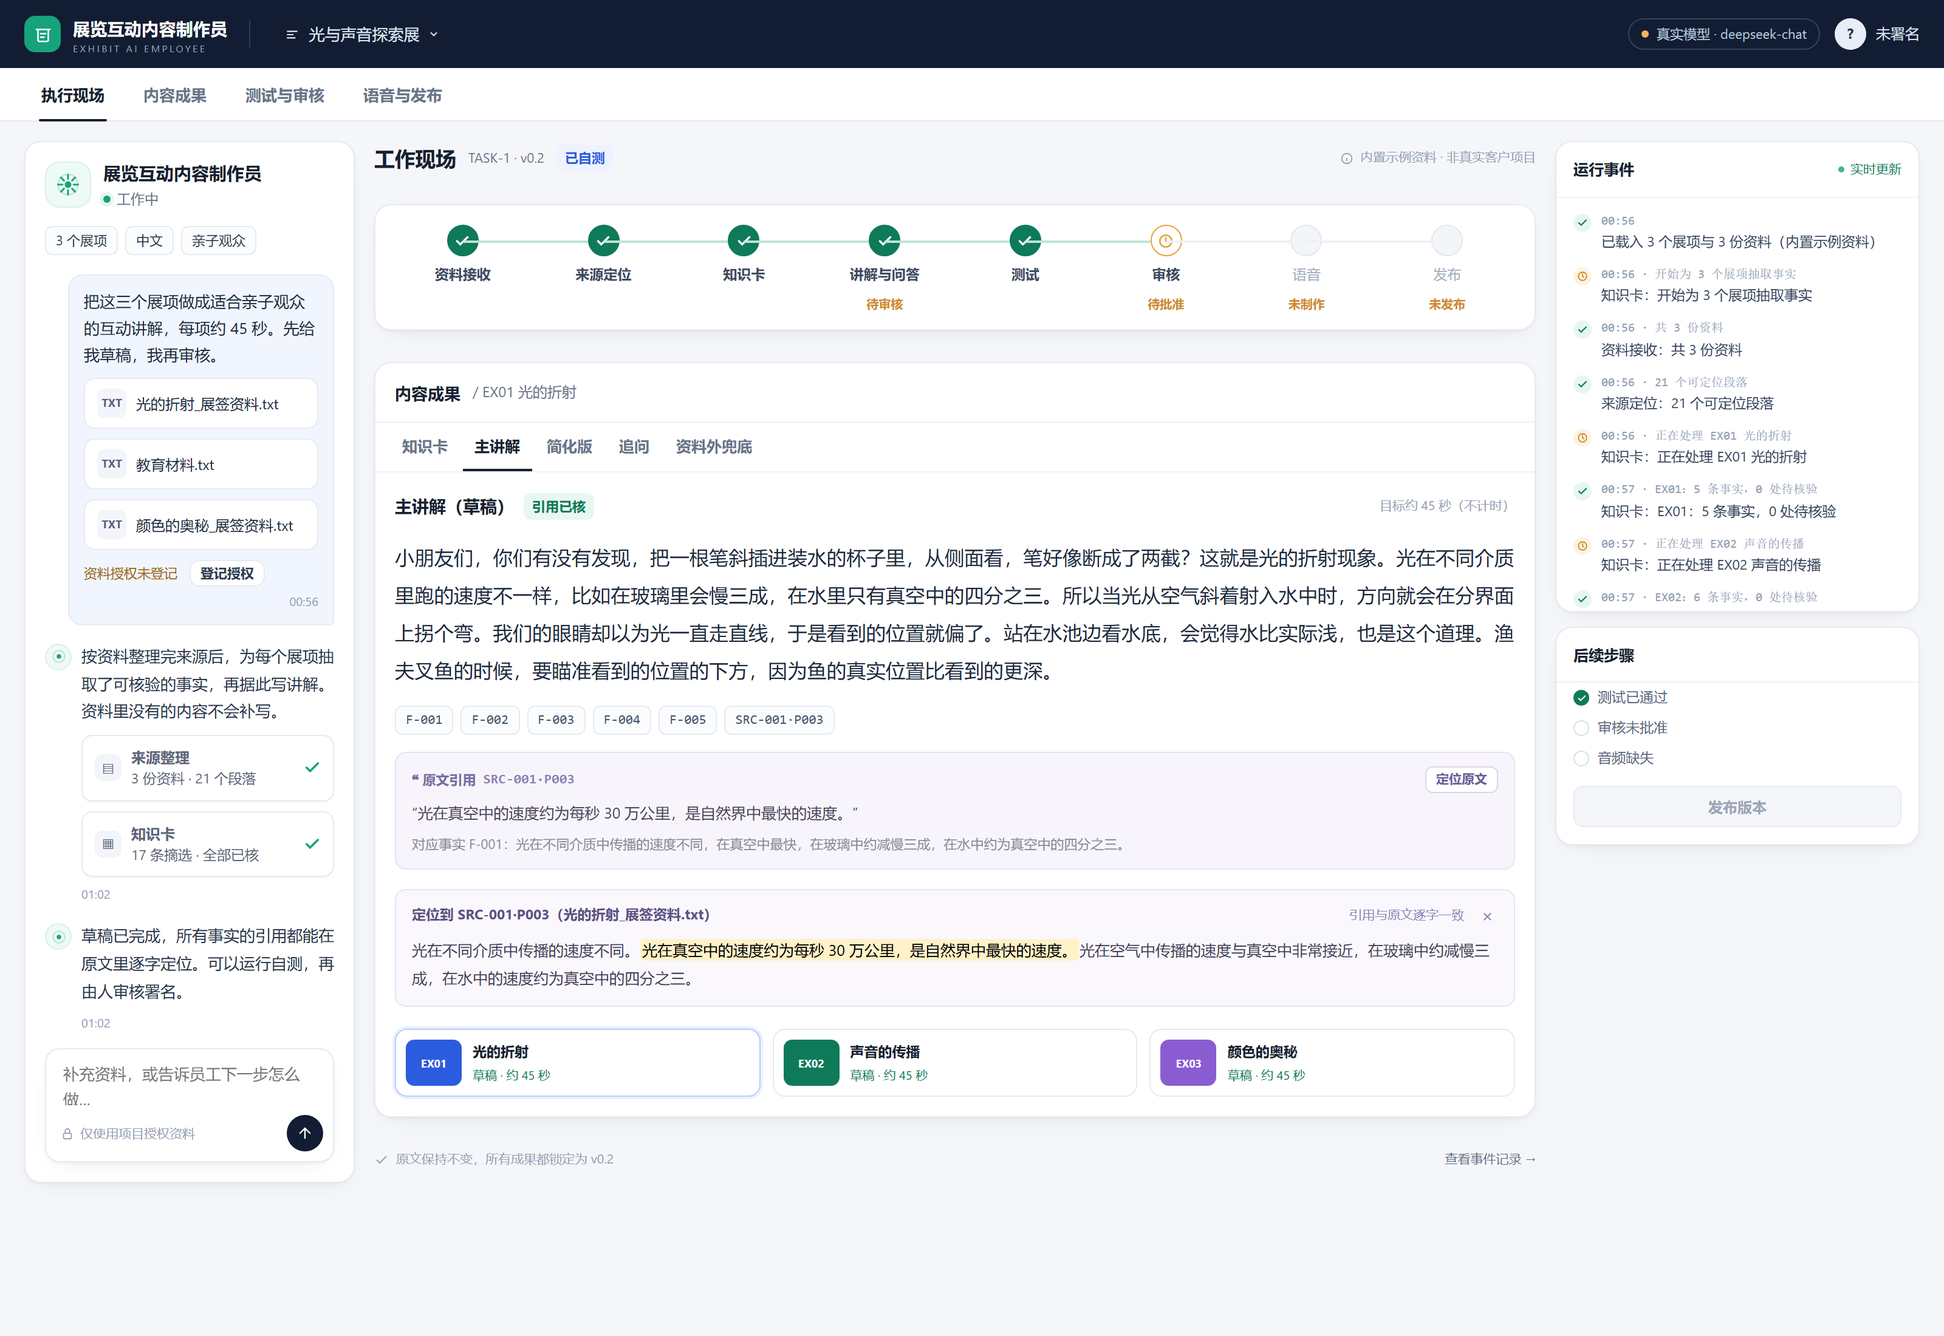
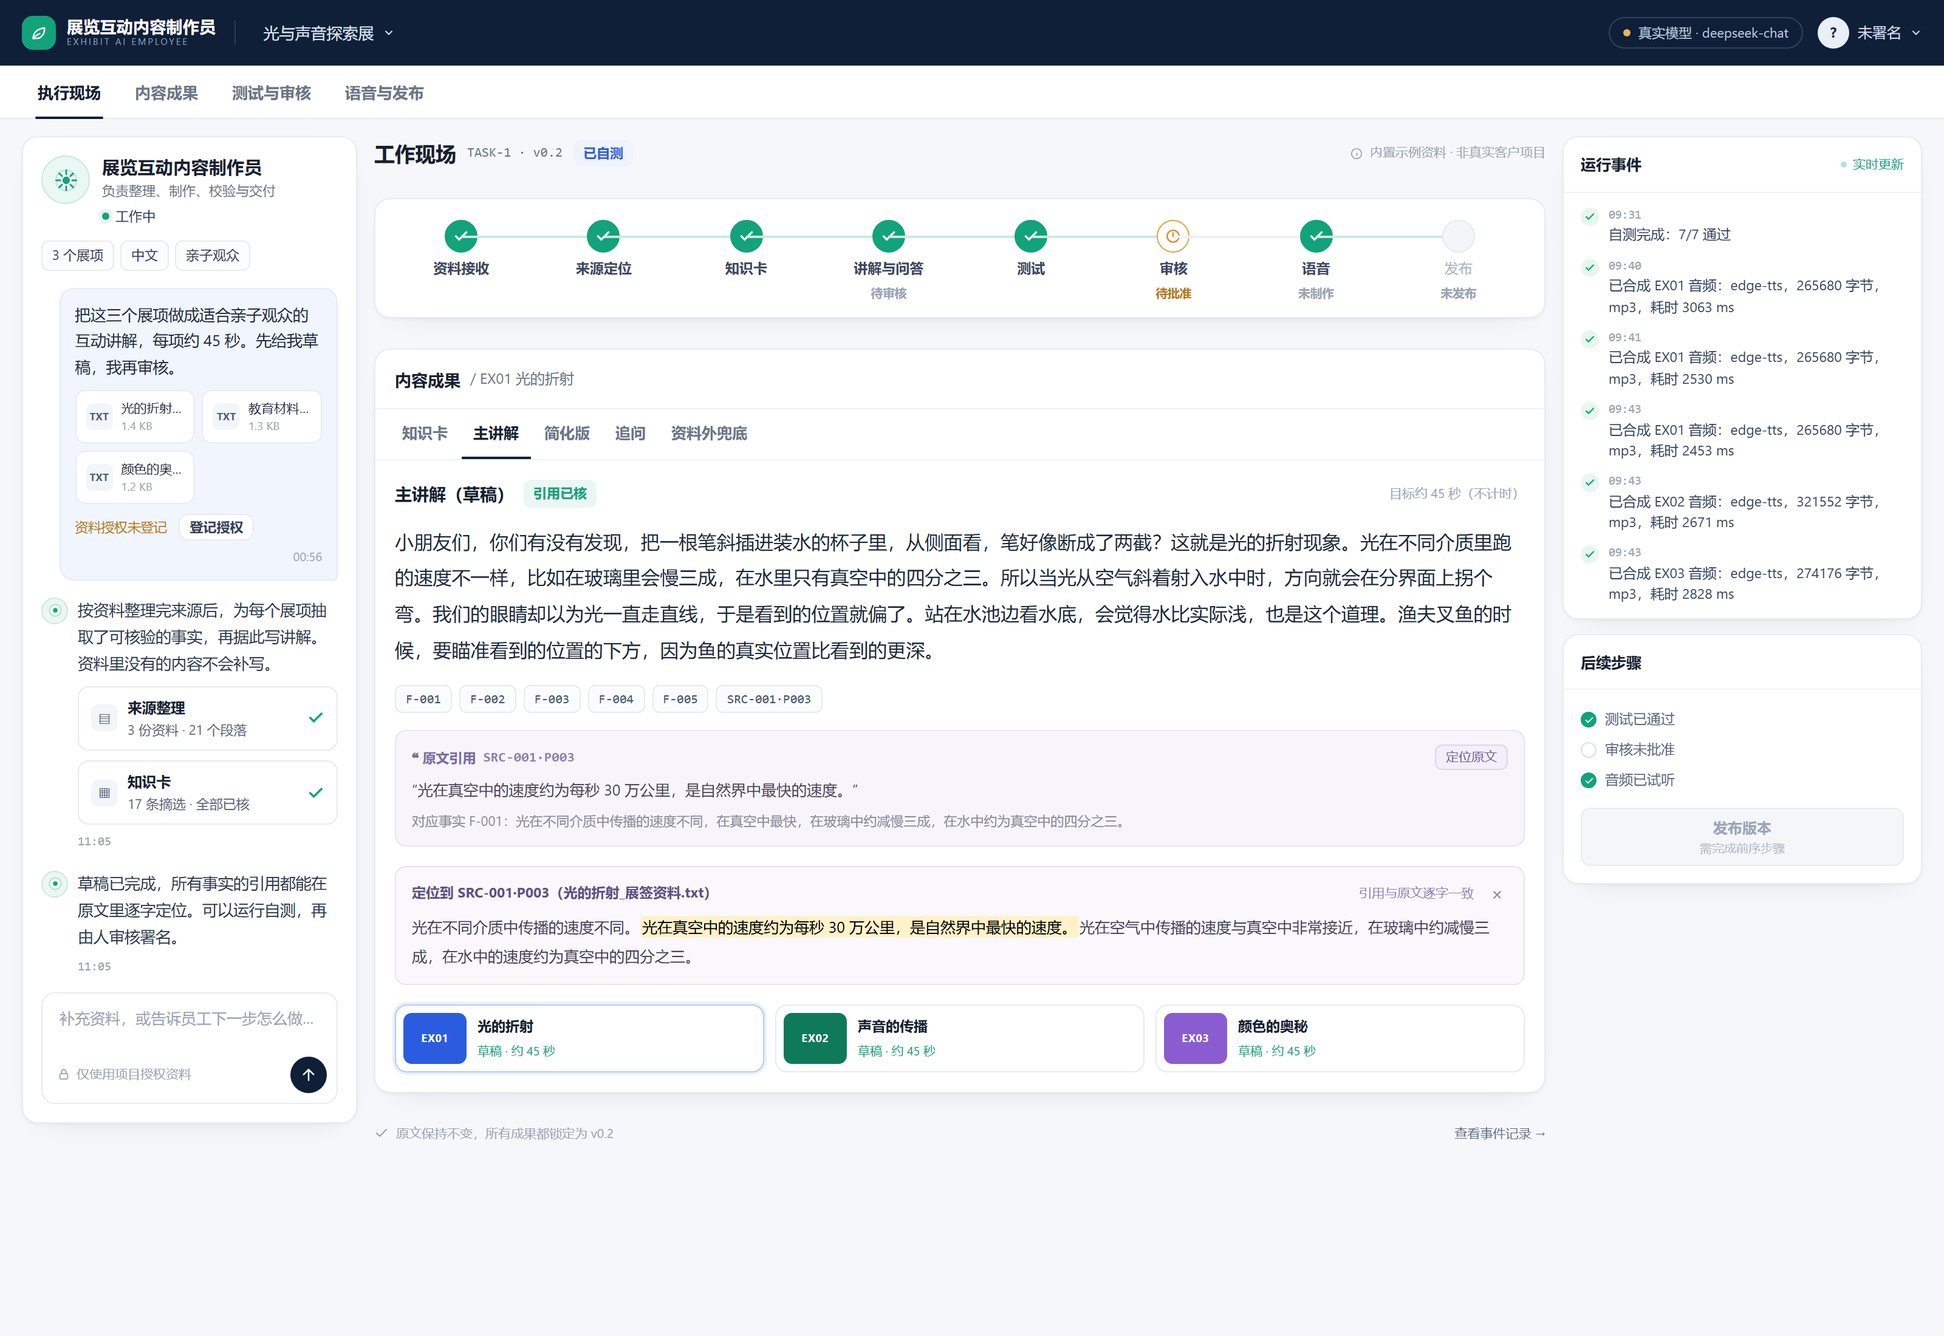
feat(studio): 加访问口令鉴权 + 裸奔启动护栏
- studio_server: ACCESS_TOKEN(STUDIO_ACCESS_TOKEN/ACCESS_TOKEN)，X-Access-Token 头或 ?token=
  全部 /api/studio/* 都要口令，静态页放行；比较用 hmac.compare_digest 防计时侧信道
- 启动护栏：未配口令却监听非本机地址时拒绝启动，STUDIO_ALLOW_NO_AUTH=1 为显式逃生阀
- health 增加 auth_required 字段；CODE_REV 升 c
- studio_web: 单点 api() 统一带口令头，audio 与导出链接走 ?token=，401 时提示输入口令
- 新增 _auth_checks.py 鉴权回归 13 条（真实 HTTP，独立端口与临时库）

diff --git a/exhibit_ai_employee/studio_web.html b/exhibit_ai_employee/studio_web.html
@@ -513,11 +513,34 @@ const CHECK = '<svg viewBox="0 0 24 24" fill="none" stroke="currentColor" stroke
 const CLOCK = '<svg viewBox="0 0 24 24" fill="none" stroke="currentColor" stroke-width="2.4" stroke-linecap="round"><circle cx="12" cy="12" r="9"/><path d="M12 7v5l3 2"/></svg>';
 const hhmm = iso => { const d = new Date(iso); return isNaN(d) ? '--:--' : d.toLocaleTimeString('zh-CN', {hour12:false, hour:'2-digit', minute:'2-digit'}); };
 
+/* ---------------- 访问口令 ---------------- */
+/* 后端配置 STUDIO_ACCESS_TOKEN 后，所有 /api/studio/* 都要口令。
+   口令来源优先级：地址栏 ?token= → localStorage（从地址栏取到后会存下来）。 */
+const TOKEN_KEY = 'studio_token';
+function readToken() {
+  const fromUrl = new URLSearchParams(location.search).get('token');
+  if (fromUrl) { localStorage.setItem(TOKEN_KEY, fromUrl); return fromUrl; }
+  return localStorage.getItem(TOKEN_KEY) || '';
+}
+function authHeaders(extra) {
+  const h = Object.assign({}, extra || {});
+  const t = readToken();
+  if (t) h['X-Access-Token'] = t;
+  return h;
+}
+function withToken(path) {
+  const t = readToken();
+  if (!t) return path;
+  return path + (path.includes('?') ? '&' : '?') + 'token=' + encodeURIComponent(t);
+}
+
 async function api(path, body) {
-  const opt = body === undefined ? {} : {method:'POST', headers:{'Content-Type':'application/json'}, body: JSON.stringify(body)};
+  const headers = authHeaders(body === undefined ? {} : {'Content-Type':'application/json'});
+  const opt = body === undefined ? {headers} : {method:'POST', headers, body: JSON.stringify(body)};
   const res = await fetch(path, opt);
   let data = {};
   try { data = await res.json(); } catch {}
+  if (res.status === 401) { const e = new Error('需要访问口令'); e.unauthorized = true; throw e; }
   if (!res.ok) throw new Error(data.error || ('请求失败 ' + res.status));
   return data;
 }
@@ -561,7 +584,7 @@ function render() {
   $('chipExhibits').textContent = (p.materials || []).length + ' 个展项';
   $('agentState').textContent = p.status === 'running' ? '正在生成' : (p.status === 'failed' ? '出错，等待指示' : '工作中');
   $('footNote').textContent = '原文保持不变，所有成果都锁定为 v' + p.version.toFixed(1);
-  $('exportLink').href = '/api/studio/projects/' + p.id + '/export';
+  $('exportLink').href = withToken('/api/studio/projects/' + p.id + '/export');
   $('tabDot').hidden = !(p.issues && p.issues.length);
 
   renderSteps();
@@ -966,7 +989,7 @@ $('playVoice').addEventListener('click', async () => {
       {text, exhibit_id: exhibitId});
     S.project = project;
     if (audioEl) { audioEl.pause(); audioEl = null; }
-    audioEl = new Audio('/api/studio/projects/' + S.project.id + '/audio/' + audio.filename);
+    audioEl = new Audio(withToken('/api/studio/projects/' + S.project.id + '/audio/' + audio.filename));
     audioEl.play().then(() => {
       $('voiceState').textContent = '播放中 · ' + (audio.format === 'mp3' ? 'MP3' : 'WAV') + ' ' + (audio.bytes / 1024).toFixed(0) + ' KB';
       $('voiceState').className = 'tag ok';
@@ -1058,8 +1081,14 @@ async function boot() {
     await loadProject(id);
     pollEvents();
   } catch (err) {
+    if (err.unauthorized) { askToken(); return; }
     $('chat').innerHTML = '<div class="empty-note">无法连接后端：' + esc(err.message) + '</div>';
   }
+}
+function askToken() {
+  const t = window.prompt('这个服务需要访问口令。请输入 STUDIO_ACCESS_TOKEN：', '');
+  if (t && t.trim()) { localStorage.setItem(TOKEN_KEY, t.trim()); location.reload(); return; }
+  $('chat').innerHTML = '<div class="empty-note">后端要求访问口令；未提供口令时不会读取任何项目数据。</div>';
 }
 boot();
 </script>

diff --git a/exhibit_ai_employee/_auth_checks.py b/exhibit_ai_employee/_auth_checks.py
@@ -1,0 +1,185 @@
+"""鉴权回归：验证 studio_server 的访问口令真的在拦，且护栏不会把本机开发卡死。
+
+和 _audit_checks.py 一样是「故意做错」的对抗测试，区别是这里走真实 HTTP：
+口令这种事只有从外部发请求才测得出来，直接调函数测不出中间件漏挂。
+
+隔离措施：
+  · 每个用例都用临时库（STUDIO_DB），不碰 studio.sqlite3；
+  · 服务进程用独立端口（4201/4202），不影响正在跑的 4182；
+  · 子进程环境里显式删除继承来的口令变量，避免本机环境变量导致用例假通过。
+"""
+import json
+import os
+import socket
+import subprocess
+import sys
+import tempfile
+import time
+import urllib.error
+import urllib.request
+
+sys.path.insert(0, ".")
+HERE = os.path.dirname(os.path.abspath(__file__))
+SERVER = os.path.join(HERE, "studio_server.py")
+TOKEN = "check-token-9f3a"
+results = []
+
+
+def record(ok, name, detail):
+    results.append((ok, name, detail))
+
+
+def wait_port(port, timeout=20.0):
+    deadline = time.time() + timeout
+    while time.time() < deadline:
+        with socket.socket() as probe:
+            if probe.connect_ex(("127.0.0.1", port)) == 0:
+                return True
+        time.sleep(0.15)
+    return False
+
+
+def request(port, path, method="GET", token_header=None, body=None, query_token=None):
+    url = "http://127.0.0.1:%d%s" % (port, path)
+    if query_token:
+        url += ("&" if "?" in url else "?") + "token=" + query_token
+    data = None
+    headers = {}
+    if body is not None:
+        data = json.dumps(body).encode()
+        headers["Content-Type"] = "application/json"
+    if token_header:
+        headers["X-Access-Token"] = token_header
+    req = urllib.request.Request(url, data=data, headers=headers, method=method)
+    try:
+        with urllib.request.urlopen(req, timeout=10) as res:
+            return res.status, res.read()
+    except urllib.error.HTTPError as error:
+        return error.code, error.read()
+    except Exception as error:  # 连接被拒等
+        return None, str(error).encode()
+
+
+def clean_env(**extra):
+    env = {k: v for k, v in os.environ.items()
+           if k not in ("STUDIO_ACCESS_TOKEN", "ACCESS_TOKEN", "STUDIO_ALLOW_NO_AUTH",
+                        "STUDIO_HOST", "STUDIO_PORT", "STUDIO_DB")}
+    env.update(extra)
+    env["PYTHONIOENCODING"] = "utf-8"
+    return env
+
+
+class Server:
+    def __init__(self, port, **env_extra):
+        self.port = port
+        self.db = os.path.join(tempfile.gettempdir(), "studio_auth_%d.sqlite3" % port)
+        for suffix in ("", "-wal", "-shm"):
+            try:
+                os.remove(self.db + suffix)
+            except OSError:
+                pass
+        self.proc = subprocess.Popen(
+            [sys.executable, SERVER],
+            env=clean_env(STUDIO_PORT=str(port), STUDIO_DB=self.db,
+                          STUDIO_HOST="127.0.0.1", **env_extra),
+            cwd=HERE, stdout=subprocess.PIPE, stderr=subprocess.PIPE)
+
+    def up(self):
+        return wait_port(self.port)
+
+    def stop(self):
+        self.proc.terminate()
+        try:
+            self.proc.wait(timeout=5)
+        except subprocess.TimeoutExpired:
+            self.proc.kill()
+
+
+def main():
+    # ---------- 场景一：配置了口令 ----------
+    server = Server(4201, STUDIO_ACCESS_TOKEN=TOKEN)
+    if not server.up():
+        out, err = server.proc.communicate(timeout=5)
+        print("服务未能启动：\n" + err.decode("utf-8", "replace"))
+        return 1
+    try:
+        status, body = request(4201, "/")
+        record(status == 200 and b"<html" in body.lower(), "静态页无需口令即可打开",
+               "status=%s bytes=%d" % (status, len(body)))
+
+        status, body = request(4201, "/api/studio/health")
+        record(status == 401, "无口令读接口应被拒", "status=%s body=%s" % (status, body[:80]))
+
+        status, body = request(4201, "/api/studio/health", token_header=TOKEN)
+        health = json.loads(body) if status == 200 else {}
+        record(status == 200 and health.get("auth_required") is True,
+               "带 X-Access-Token 头应放行且声明需要口令",
+               "status=%s auth_required=%s" % (status, health.get("auth_required")))
+
+        status, _ = request(4201, "/api/studio/health", query_token=TOKEN)
+        record(status == 200, "URL 上带 ?token= 应放行（给 audio/下载用）", "status=%s" % status)
+
+        status, _ = request(4201, "/api/studio/health", token_header=TOKEN + "x")
+        record(status == 401, "错误口令应被拒", "status=%s" % status)
+
+        status, _ = request(4201, "/api/studio/health", query_token="")
+        record(status == 401, "空 token 参数不得当作通过", "status=%s" % status)
+
+        status, body = request(4201, "/api/studio/projects/7e1c974ff8/run", method="POST", body={})
+        record(status == 401, "无口令不得触发生成（会烧模型额度）",
+               "status=%s body=%s" % (status, body[:80]))
+
+        status, body = request(4201, "/api/studio/projects/7e1c974ff8/publish", method="POST", body={})
+        record(status == 401, "无口令不得触发发布", "status=%s" % status)
+
+        status, body = request(4201, "/api/studio/projects/7e1c974ff8/authorize",
+                               method="POST", token_header=TOKEN, body={"confirmed_by": "checker"})
+        record(status in (200, 404), "带口令的写操作应通过鉴权（业务错误不等于鉴权错误）",
+               "status=%s body=%s" % (status, body[:80]))
+
+        # 口令不得出现在静态页里
+        status, body = request(4201, "/")
+        record(TOKEN.encode() not in body, "口令不得泄漏进静态页", "found=%s" % (TOKEN.encode() in body))
+    finally:
+        server.stop()
+
+    # ---------- 场景二：未配置口令 + 监听非本机 → 必须拒绝启动 ----------
+    proc = subprocess.run(
+        [sys.executable, SERVER],
+        env=clean_env(STUDIO_PORT="4202", STUDIO_HOST="0.0.0.0",
+                      STUDIO_DB=os.path.join(tempfile.gettempdir(), "studio_auth_guard.sqlite3")),
+        cwd=HERE, capture_output=True, timeout=30)
+    text = (proc.stderr + proc.stdout).decode("utf-8", "replace")
+    record(proc.returncode != 0 and "拒绝启动" in text,
+           "裸奔监听非本机时应拒绝启动", "returncode=%s" % proc.returncode)
+
+    # ---------- 场景三：未配置口令 + 本机监听 → 放行（本机开发不受影响）----------
+    server = Server(4203)
+    started = server.up()
+    server.stop()
+    record(started, "本机监听且未配口令时仍可启动（本机开发不被卡死）", "started=%s" % started)
+
+    # ---------- 场景四：显式逃生阀 ----------
+    proc = subprocess.run(
+        [sys.executable, "-c",
+         "import os,sys;sys.path.insert(0,'.');"
+         "os.environ['STUDIO_HOST']='0.0.0.0';os.environ['STUDIO_ALLOW_NO_AUTH']='1';"
+         "os.environ['STUDIO_PORT']='4204';"
+         "import studio_server as S;"
+         "print('LOOPBACK', S.is_loopback('127.0.0.1'), S.is_loopback('0.0.0.0'), S.is_loopback('::1'))"],
+        env=clean_env(), cwd=HERE, capture_output=True, timeout=30)
+    text = proc.stdout.decode("utf-8", "replace")
+    record("LOOPBACK True False True" in text, "is_loopback 判定正确（::1 也算本机）", text.strip()[:80])
+
+    print()
+    fails = 0
+    for ok, name, detail in results:
+        print(("PASS " if ok else "FAIL ") + name + " | " + detail)
+        if not ok:
+            fails += 1
+    print("\n%d/%d 通过" % (len(results) - fails, len(results)))
+    return 1 if fails else 0
+
+
+if __name__ == "__main__":
+    sys.exit(main())

diff --git a/exhibit_ai_employee/studio_server.py b/exhibit_ai_employee/studio_server.py
@@ -5,6 +5,8 @@
 数据：  studio.sqlite3（项目、事件、调用记录）
 模型：  通过 .env.local 的 AI_BASE_URL / AI_MODEL / DEEPSEEK_API_KEY 调用
 """
+import hmac
+import ipaddress
 import json
 import os
 import re
@@ -24,6 +26,20 @@ ROOT = Path(__file__).resolve().parent
 DB_PATH = Path(os.environ.get("STUDIO_DB", ROOT / "studio.sqlite3"))
 HOST = os.environ.get("STUDIO_HOST", "127.0.0.1")
 PORT = int(os.environ.get("STUDIO_PORT", "4182"))
+# 访问口令。Studio 这套此前完全没有鉴权：一旦监听非本机地址，任何人都能调生成、
+# 审批、发布并烧掉模型与 Breeze 额度。这里与 app.py 用同一个变量名，便于一套口令管两套服务。
+ACCESS_TOKEN = (os.environ.get("STUDIO_ACCESS_TOKEN") or os.environ.get("ACCESS_TOKEN") or "").strip()
+
+
+def is_loopback(host):
+    """判断监听地址是否只对本机可见。用于决定「没配口令」能不能放行。"""
+    host = (host or "").strip().strip("[]").lower()
+    if host in ("", "localhost"):
+        return True
+    try:
+        return ipaddress.ip_address(host).is_loopback
+    except ValueError:
+        return False
 
 
 def load_local_env():
@@ -42,7 +58,7 @@ load_local_env()
 API_BASE = os.environ.get("AI_BASE_URL", "https://api.deepseek.com/v1").rstrip("/")
 API_KEY = os.environ.get("AI_API_KEY") or os.environ.get("DEEPSEEK_API_KEY") or ""
 MODEL = os.environ.get("AI_MODEL", "deepseek-chat")
-CODE_REV = "studio-2026-11-15-b"
+CODE_REV = "studio-2026-11-15-c"
 
 # 本地 TTS 模块：放在 load_local_env() 之后导入，使 .env.local 里的音色配置能生效。
 import tts  # noqa: E402
@@ -526,6 +542,25 @@ class Handler(BaseHTTPRequestHandler):
         except (json.JSONDecodeError, UnicodeDecodeError):
             return {}
 
+    def authorized(self):
+        """校验访问口令。未配置口令时放行——启动护栏（main）保证这只在监听本机时才发生。
+
+        口令支持 X-Access-Token 头或 ?token= 查询参数；后者是给 <audio src>、
+        导出下载这类浏览器无法附加自定义头的请求用的。比较用 compare_digest 避免计时侧信道。
+        """
+        if not ACCESS_TOKEN:
+            return True
+        supplied = self.headers.get("X-Access-Token") or ""
+        if not supplied:
+            supplied = (parse_qs(urlparse(self.path).query).get("token") or [""])[0]
+        return hmac.compare_digest(supplied.strip(), ACCESS_TOKEN)
+
+    def require_auth(self):
+        """未授权时回 401。返回值非 None 表示已经写过响应。"""
+        if self.authorized():
+            return None
+        return self.send_json(401, {"error": "需要访问口令：请带 X-Access-Token 头，或在地址后加 ?token=..."})
+
     def do_GET(self):
         parsed = urlparse(self.path)
         path = parsed.path
@@ -538,11 +573,15 @@ class Handler(BaseHTTPRequestHandler):
             self.send_header("Cache-Control", "no-store")
             self.end_headers()
             return self.wfile.write(page)
+        # 静态页本身不含数据，放行；所有 /api/studio/* 接口都要口令。
+        denied = self.require_auth()
+        if denied is not None:
+            return denied
         try:
             if path == "/api/studio/health":
                 return self.send_json(200, {"ok": True, "model": MODEL, "key_configured": bool(API_KEY),
                                             "database": DB_PATH.name, "code": CODE_REV, "pid": os.getpid(),
-                                            "tts": tts.status()})
+                                            "auth_required": bool(ACCESS_TOKEN), "tts": tts.status()})
             if path in ("/api/studio/projects", "/api/studio/seed"):
                 with db() as c:
                     rows = c.execute("SELECT body FROM projects ORDER BY updated_at DESC").fetchall()
@@ -628,6 +667,9 @@ class Handler(BaseHTTPRequestHandler):
             return self.send_json(500, {"error": "%s: %s" % (type(error).__name__, error)})
 
     def do_POST(self):
+        denied = self.require_auth()
+        if denied is not None:
+            return denied
         path = urlparse(self.path).path
         data = self.read_json()
         try:
@@ -838,7 +880,20 @@ def handle_chat(project, message):
 
 def main():
     initialize()
+    # 启动护栏：没配口令却监听非本机地址，等于把生成/审批/发布和付费额度敞开给内网。
+    # 这里选择「拒绝启动」而不是自动生成口令——自动生成的口令容易被当成没生效。
+    if not ACCESS_TOKEN and not is_loopback(HOST):
+        raise SystemExit(
+            "拒绝启动：STUDIO_HOST=%s 不是本机地址，但没有配置访问口令。\n"
+            "  · 正式/内网部署请设置 STUDIO_ACCESS_TOKEN（或 ACCESS_TOKEN）后再启动；\n"
+            "  · 只做临时本机演示请用 STUDIO_HOST=127.0.0.1；\n"
+            "  · 确认无鉴权风险、仍要对外监听，可显式设置 STUDIO_ALLOW_NO_AUTH=1 跳过这条护栏。"
+            % HOST)
+    if not ACCESS_TOKEN and os.environ.get("STUDIO_ALLOW_NO_AUTH") == "1":
+        print("警告：已按 STUDIO_ALLOW_NO_AUTH=1 跳过鉴权护栏，本服务任何调用方都能触发生成与发布。")
     print("Studio listening on http://%s:%d" % (HOST, PORT))
+    print("  鉴权：%s" % ("已启用（X-Access-Token / ?token=）" if ACCESS_TOKEN
+                        else "未启用（仅本机监听，生产环境必须配置 STUDIO_ACCESS_TOKEN）"))
     ThreadingHTTPServer((HOST, PORT), Handler).serve_forever()
 
 
